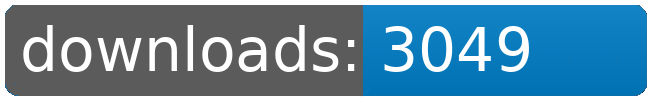
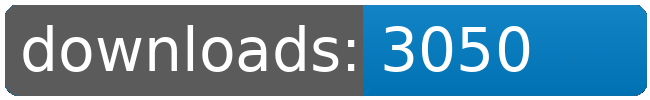
dl log written

Changed region(s): [[0.7077, 0.24, 0.8308, 0.72]]

diff --git a/README.md b/README.md
@@ -21,8 +21,8 @@
 		<td>3067</td>
 		<td>3096</td>
 		<td>3121</td>
-		<td>3128</td>
-		<td>+ 7</td>
+		<td>3129</td>
+		<td>+ 8</td>
 	</tr>
 	<tr>
 		<td>Factory.Outlets</td>
@@ -32,8 +32,8 @@
 		<td>2983</td>
 		<td>3013</td>
 		<td>3042</td>
-		<td>3049</td>
-		<td>+ 7</td>
+		<td>3050</td>
+		<td>+ 8</td>
 	</tr>
 	<tr>
 		<td>Fundamental.Outfit.Expansion</td>
@@ -109,8 +109,8 @@
 		<td></td>
 		<td></td>
 		<td></td>
-		<td>25696</td>
-		<td>56</td>
+		<td>25698</td>
+		<td>58</td>
 	</tr>
 </table>
 </sub></sup>
@@ -157,8 +157,8 @@
 		<td>3067</td>
 		<td>3096</td>
 		<td>3121</td>
-		<td>3128</td>
-		<td>+ 7</td>
+		<td>3129</td>
+		<td>+ 8</td>
 	</tr>
 	<tr>
 		<td>Korunak.Defense.Drones</td>
@@ -190,8 +190,8 @@
 		<td>2983</td>
 		<td>3013</td>
 		<td>3042</td>
-		<td>3049</td>
-		<td>+ 7</td>
+		<td>3050</td>
+		<td>+ 8</td>
 	</tr>
 	<tr>
 		<td>Jaws</td>
@@ -223,8 +223,8 @@
 		<td></td>
 		<td></td>
 		<td></td>
-		<td>25696</td>
-		<td>56</td>
+		<td>25698</td>
+		<td>58</td>
 	</tr>
 </table>
 </sub></sup>
